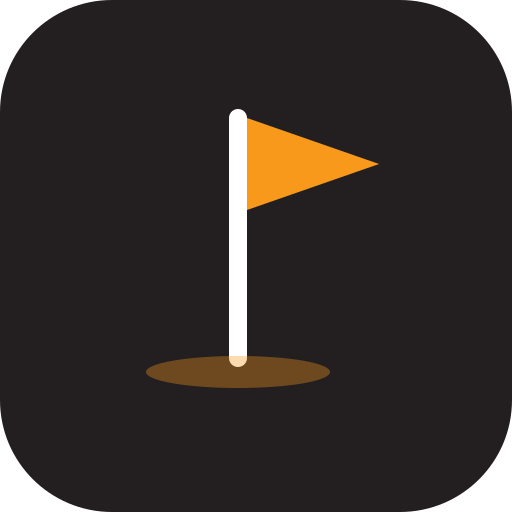
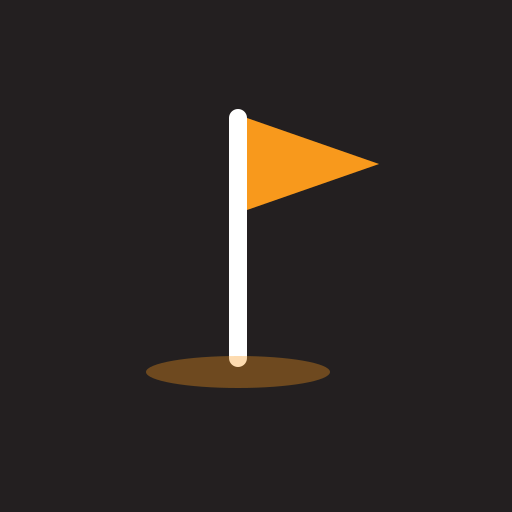
Square corners throughout
Claude-Session: https://claude.ai/code/session_01NVcpAXN7Dj4kUh4SDroLea

diff --git a/src/styles.css b/src/styles.css
@@ -369,3 +369,7 @@ h2 { font-family: var(--f-head); font-weight: 600; color: var(--ink); letter-spa
 .pill-ok { background: var(--ok-soft); color: var(--accent-green); }
 .board-team.leading { box-shadow: inset 0 0 0 2px var(--ink); }
 @media (max-width: 420px) { h1 { font-size: 1.6rem; } .board-pts { font-size: 2.7rem; } }
+
+/* Square corners everywhere; only the small team dots stay round. */
+*, *::before, *::after, :focus-visible { border-radius: 0 !important; }
+.team-dot { border-radius: 50% !important; }
